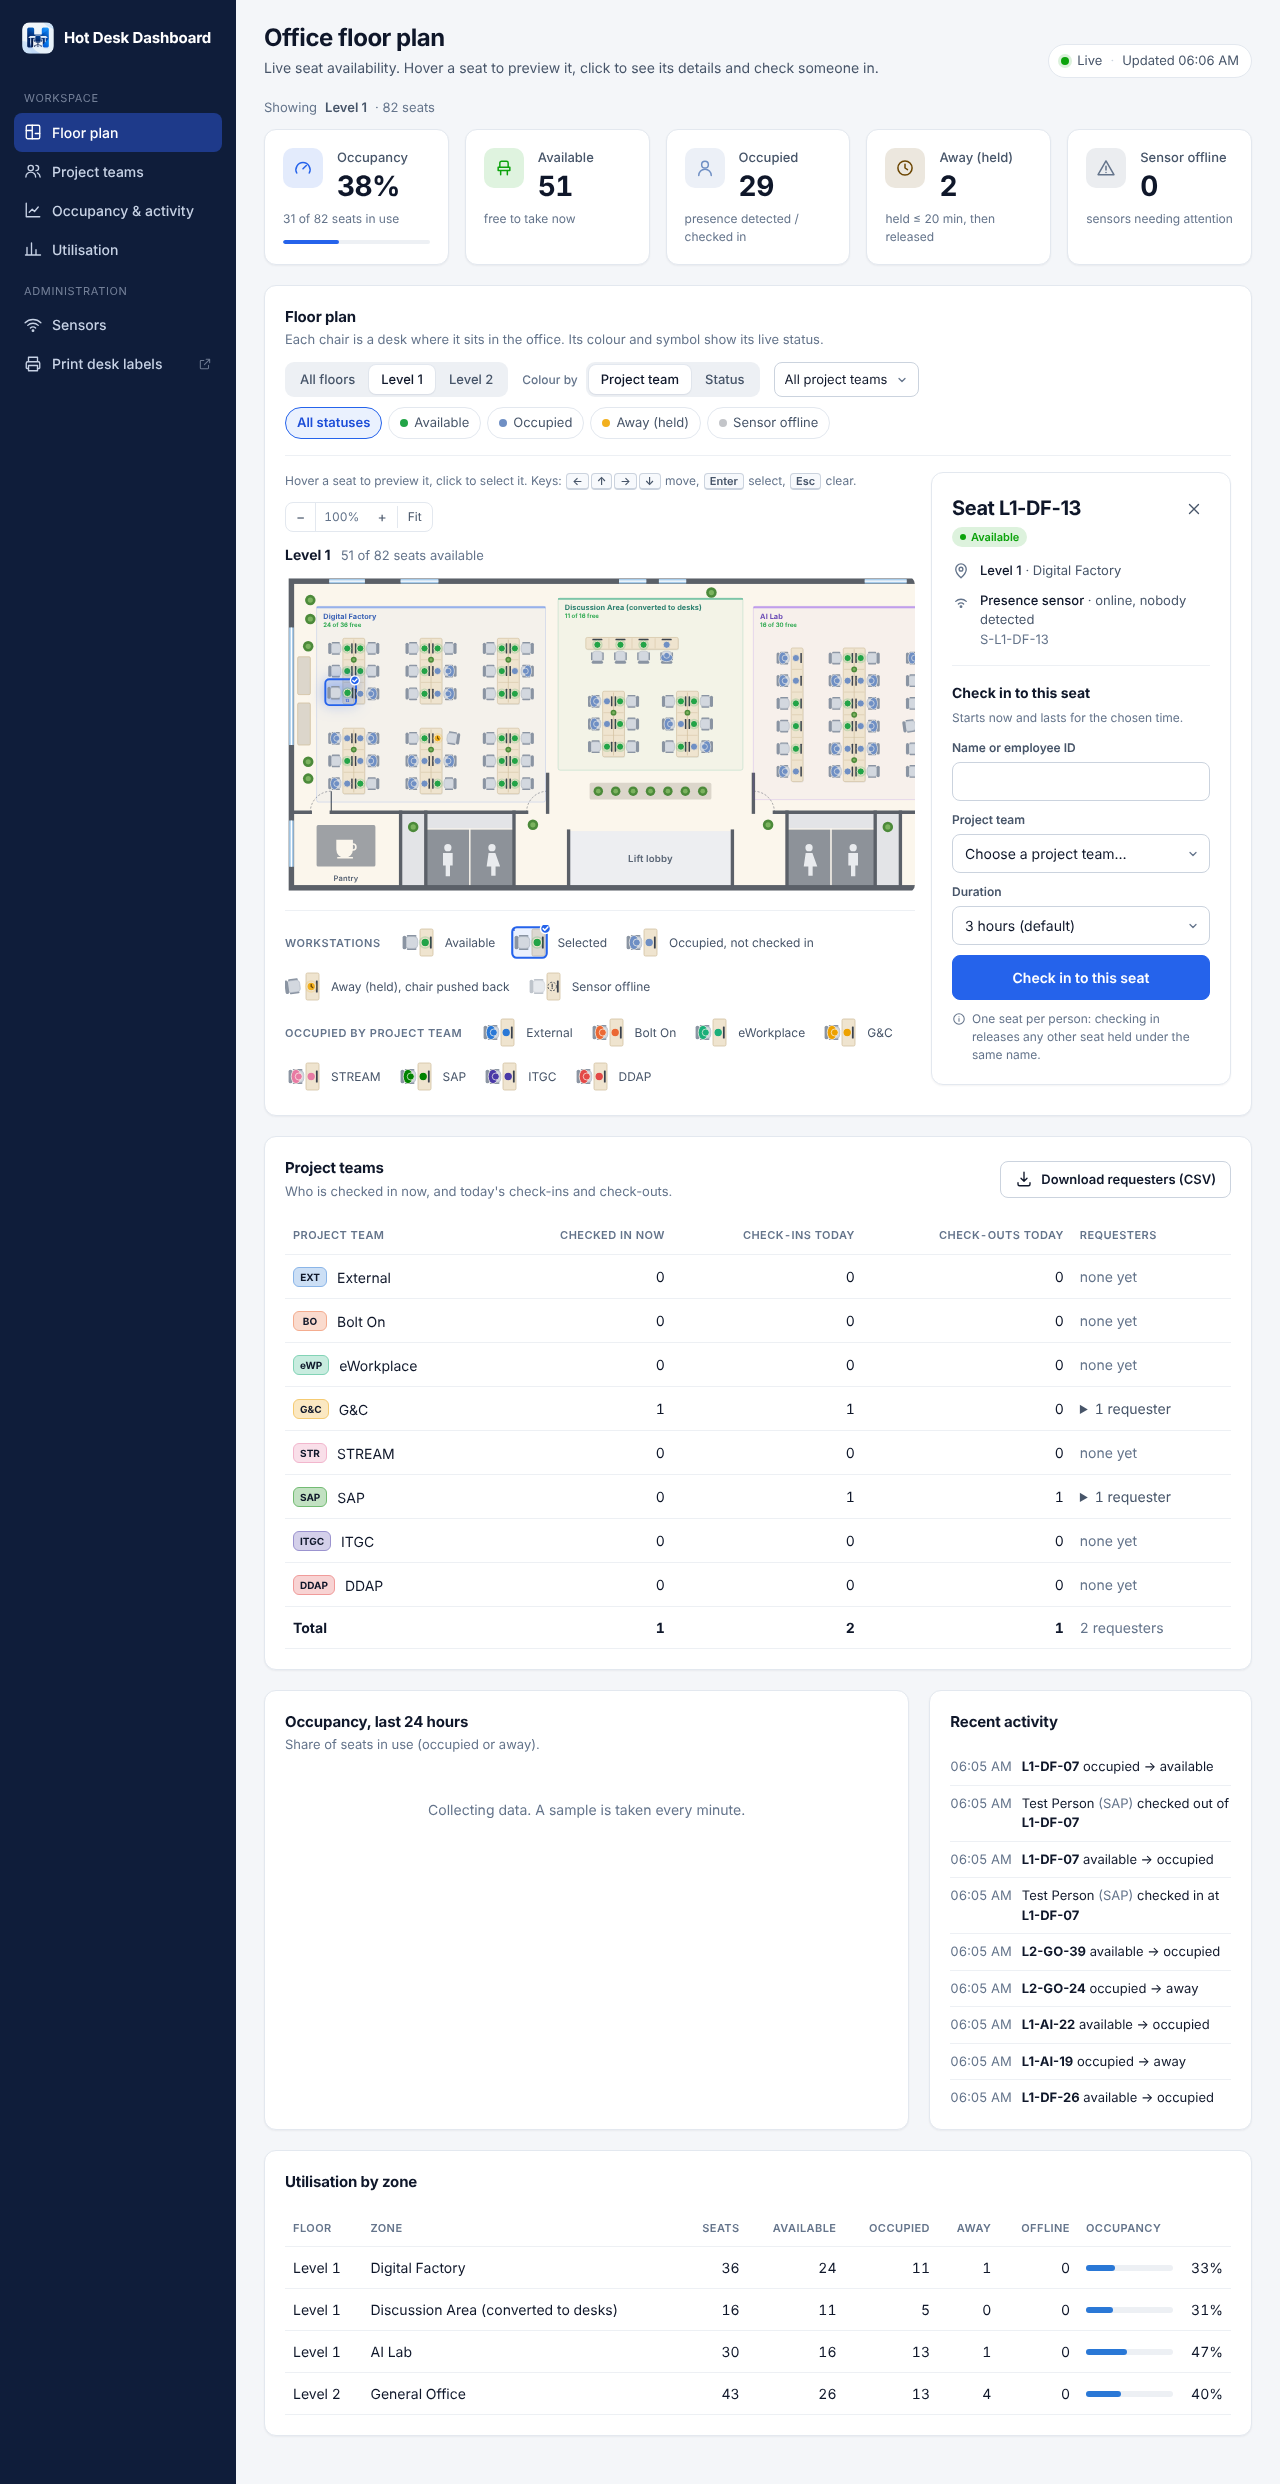
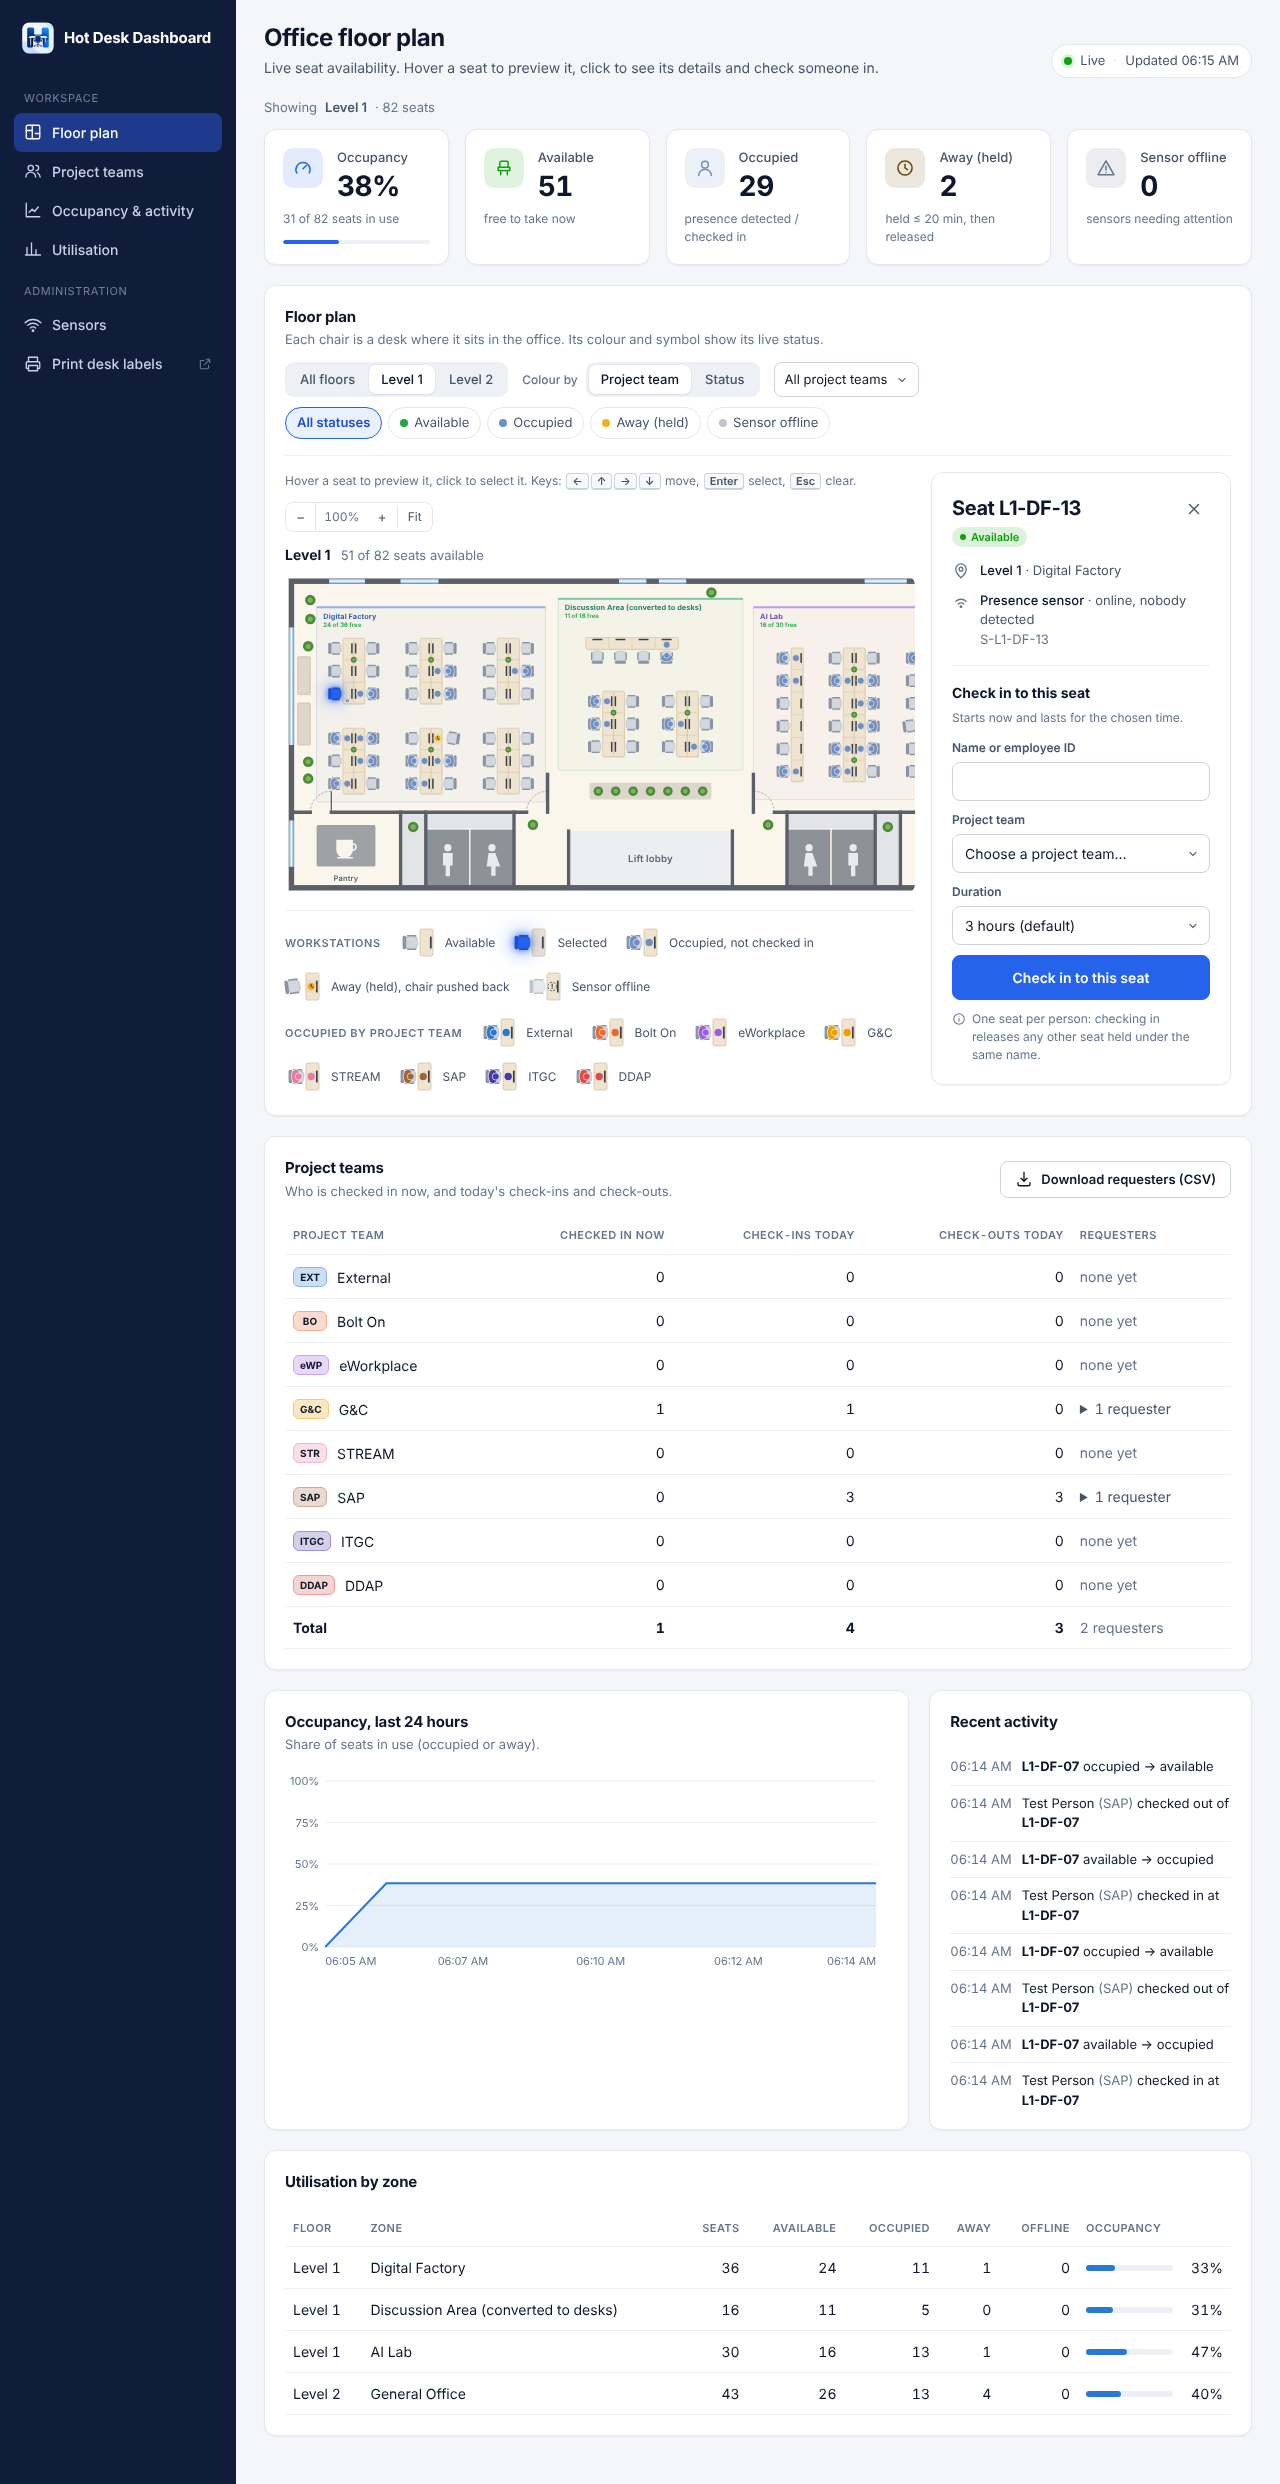
Select by highlighting the chair; drop the free-seat light; no green teams
- Selecting a seat now turns its chair blue with a soft glow, instead of
  boxing the whole workstation and its light
- Hover no longer draws a box either: the chair edge darkens and a free
  desk gets a faint green tint
- Free desks carry no status light; only occupied, away and offline seats do
- Project team palette slots 3 and 6 (green and teal-green) are now violet
  and brown, so team colours can't be mistaken for seat status

Claude-Session: https://claude.ai/code/session_01LGhQKA2iw4MbRhcQm9t68K

diff --git a/public/index.html b/public/index.html
@@ -43,8 +43,8 @@
     --seat-occ-ink: #64748b;
     --line: #2a78d6;
     /* Project team colours: the validated 8-slot categorical palette, assigned in team order. */
-    --team-1: #2a78d6; --team-2: #eb6834; --team-3: #1baf7a; --team-4: #eda100;
-    --team-5: #e87ba4; --team-6: #008300; --team-7: #4a3aa7; --team-8: #e34948;
+    --team-1: #2a78d6; --team-2: #eb6834; --team-3: #9b5de5; --team-4: #eda100;
+    --team-5: #e87ba4; --team-6: #a0663a; --team-7: #4a3aa7; --team-8: #e34948;
     --anon: #7a7974;
     /* Seat chairs on the floor plan: status is the chair colour plus a glyph. */
     --seat-available: #22a447; --seat-occupied: #6f8fc4; --seat-away: #f2b01e; --seat-offline: #c3c5c9;
@@ -65,8 +65,8 @@
       --shadow-sm: 0 1px 2px rgb(0 0 0 / 0.3); --shadow-md: 0 8px 24px -8px rgb(0 0 0 / 0.6);
       --available-soft: rgb(12 163 12 / 0.14); --away-ink: #fab219; --away-line: #fab219;
       --occupied: #3987e5; --offline: #5c5b56; --seat-occ: #2b3340; --seat-occ-ink: #8b97a7; --line: #3987e5;
-      --team-1: #3987e5; --team-2: #d95926; --team-3: #199e70; --team-4: #c98500;
-      --team-5: #d55181; --team-6: #008300; --team-7: #9085e9; --team-8: #e66767;
+      --team-1: #3987e5; --team-2: #d95926; --team-3: #b07cf0; --team-4: #c98500;
+      --team-5: #d55181; --team-6: #c08552; --team-7: #9085e9; --team-8: #e66767;
       --anon: #8f8e86;
       --seat-available: #2fb457; --seat-occupied: #5d7fb8; --seat-away: #e3a51a; --seat-offline: #4b5058;
       --seat-glyph: #ffffff; --seat-away-ink: #3d2800; --seat-offline-ink: #c3c8cf;
@@ -86,8 +86,8 @@
     --shadow-sm: 0 1px 2px rgb(0 0 0 / 0.3); --shadow-md: 0 8px 24px -8px rgb(0 0 0 / 0.6);
     --available-soft: rgb(12 163 12 / 0.14); --away-ink: #fab219; --away-line: #fab219;
     --occupied: #3987e5; --offline: #5c5b56; --seat-occ: #2b3340; --seat-occ-ink: #8b97a7; --line: #3987e5;
-    --team-1: #3987e5; --team-2: #d95926; --team-3: #199e70; --team-4: #c98500;
-    --team-5: #d55181; --team-6: #008300; --team-7: #9085e9; --team-8: #e66767;
+    --team-1: #3987e5; --team-2: #d95926; --team-3: #b07cf0; --team-4: #c98500;
+    --team-5: #d55181; --team-6: #c08552; --team-7: #9085e9; --team-8: #e66767;
     --anon: #8f8e86;
     --seat-available: #2fb457; --seat-occupied: #5d7fb8; --seat-away: #e3a51a; --seat-offline: #4b5058;
     --seat-glyph: #ffffff; --seat-away-ink: #3d2800; --seat-offline-ink: #c3c8cf;
@@ -253,22 +253,20 @@
   .seat { cursor: pointer; outline: none; transform-box: fill-box; transform-origin: center;
     transition: transform 0.18s cubic-bezier(0.2, 0.8, 0.2, 1), filter 0.18s, opacity 0.2s; }
   .seat .ws-hit { fill: transparent; }
-  .seat .ws-sel { fill: transparent; stroke: transparent; stroke-width: 0.3; transition: fill 0.18s, stroke 0.18s; }
   .seat .ws-desk { fill: transparent; transition: fill 0.18s; }
   .ws-monitor { fill: var(--fp-monitor); }
-  .ws-seat { fill: var(--fp-chair); stroke: var(--fp-chair-edge); stroke-width: 0.12; }
-  .ws-back, .ws-arm { fill: var(--fp-chair-dark); }
+  .ws-seat { fill: var(--fp-chair); stroke: var(--fp-chair-edge); stroke-width: 0.12; transition: fill 0.18s, stroke 0.18s; }
+  .ws-back, .ws-arm { fill: var(--fp-chair-dark); transition: fill 0.18s; }
+  .ws-chair { transition: filter 0.18s; }
   .ws-chair-in { transition: transform 0.2s ease; }
   .ws-person { display: none; fill: var(--seat-occupied); stroke: var(--fp-floor); stroke-width: 0.14; }
   .ws-light { fill: var(--k, var(--seat-offline)); stroke: var(--fp-table); stroke-width: 0.22; }
   .ws-light-halo { fill: var(--k, transparent); opacity: 0.2; }
   .ws-glyph { display: none; fill: none; stroke: #fff; stroke-width: 0.26; stroke-linecap: round; }
   .ws-num { display: none; font: 600 0.82px var(--font); fill: var(--fp-label); text-anchor: middle; dominant-baseline: central; }
-  .ws-badge { display: none; }
-  .ws-badge circle { fill: var(--accent); stroke: var(--surface); stroke-width: 0.3; }
-  .ws-badge path { fill: none; stroke: #fff; stroke-width: 0.3; stroke-linecap: round; stroke-linejoin: round; }
 
   .st-available { --k: var(--seat-available); }
+  .st-available .ws-status { display: none; }
   .st-occupied { --k: var(--seat-occupied); }
   .st-occupied .ws-person { display: inline; }
   .st-occupied .ws-light-halo { opacity: 0; }
@@ -287,14 +285,15 @@
 
   .show-nums .ws-num { display: inline; }
   .seat:not(.is-dim):hover, .seat:focus-visible { transform: translateY(-0.25px) scale(1.06); filter: drop-shadow(0 1px 1.2px rgb(15 23 42 / 0.28)); }
-  .seat:not(.is-dim):hover .ws-sel, .seat:focus-visible .ws-sel { fill: color-mix(in srgb, var(--k, var(--accent)) 10%, transparent); stroke: color-mix(in srgb, var(--k, var(--accent)) 55%, transparent); }
+  .seat:not(.is-dim):hover .ws-seat, .seat:focus-visible .ws-seat { stroke: var(--text-muted); stroke-width: 0.22; }
   .seat:hover .ws-num, .seat:focus-visible .ws-num { display: inline; }
   .seat.st-available:not(.is-dim):hover .ws-desk { fill: color-mix(in srgb, var(--seat-available) 14%, transparent); }
-  .seat:focus-visible .ws-sel { stroke: var(--accent); stroke-dasharray: 0.6 0.4; }
-  .seat.is-selected { transform: translateY(-0.25px) scale(1.06); filter: drop-shadow(0 0 1.6px rgb(37 99 235 / 0.55)); }
-  .seat.is-selected .ws-sel, .seat.is-selected:hover .ws-sel { fill: color-mix(in srgb, var(--accent) 9%, transparent); stroke: var(--accent); stroke-width: 0.42; stroke-dasharray: none; }
-  .seat.is-selected .ws-badge, .seat.is-selected .ws-num { display: inline; }
-  .seat.is-selected .ws-num { fill: var(--accent-strong); font-weight: 700; }
+  .seat:focus-visible .ws-seat { stroke: var(--accent); stroke-dasharray: 0.5 0.35; }
+  /* Selected: the chair itself turns blue and glows; nothing is boxed. */
+  .seat.is-selected .ws-seat, .seat.is-selected:hover .ws-seat { fill: var(--accent); stroke: var(--accent-strong); stroke-width: 0.16; stroke-dasharray: none; }
+  .seat.is-selected .ws-back, .seat.is-selected .ws-arm { fill: var(--accent-strong); }
+  .seat.is-selected .ws-chair { filter: drop-shadow(0 0 0.8px var(--accent)) drop-shadow(0 0 2.2px rgb(37 99 235 / 0.55)); opacity: 1; }
+  .seat.is-selected .ws-num { display: inline; fill: var(--accent-strong); font-weight: 700; }
   .seat.is-dim { pointer-events: none; cursor: default; opacity: 0.2; }
 
   /* Legend */
@@ -302,7 +301,7 @@
   .lgroup { display: flex; flex-wrap: wrap; gap: 8px 16px; align-items: center; }
   .lgroup > b { font-size: 11px; text-transform: uppercase; letter-spacing: 0.05em; color: var(--text-muted); font-weight: 600; margin-right: 2px; }
   .litem { display: inline-flex; align-items: center; gap: 6px; font-size: 12px; color: var(--text-secondary); }
-  .ws-sample { width: 40px; height: 36px; flex: none; }
+  .ws-sample { width: 40px; height: 36px; flex: none; overflow: visible; }
   .ws-sample .seat { cursor: default; pointer-events: none; transform: none !important; filter: none !important; }
   .chip {
     display: inline-flex; align-items: center; justify-content: center; min-width: 34px; height: 20px; padding: 0 6px; border-radius: 6px;

diff --git a/public/floorplan.js b/public/floorplan.js
@@ -8,8 +8,8 @@
  * wide a bench desk, and a single row of three or more a counter with seats along it.
  *
  * Each seat is drawn as a workstation: its own segment of the table with a monitor, an
- * office chair, and a status light on the desk. Furniture is neutral; status is colour
- * (the light, and a seated person when occupied); interaction is a highlight.
+ * office chair, and a status light on the desk once it is taken (none while free).
+ * Furniture is neutral; status is colour; selection turns the chair itself blue.
  *
  * A floor may also carry a `plan` (outline, walls, windows, doors, rooms, fixtures,
  * plants and a box per zone, all in plan units of roughly 10 cm). Without one, zones
@@ -239,13 +239,11 @@ const FloorPlan = (() => {
     const num = String(p.id).split('-').pop();
     return `<g class="seat" data-seat="${esc(p.id)}" data-side="${p.side}" data-kind="${esc(p.kind)}" data-table-seats="${p.tableSeats}" tabindex="-1" role="button">
       <rect class="ws-hit" x="${r1(b.x - 0.3)}" y="${r1(b.y - 0.3)}" width="${r1(b.w + 0.6)}" height="${r1(b.h + 0.6)}"/>
-      <rect class="ws-sel" x="${r1(b.x - 0.35)}" y="${r1(b.y - 0.35)}" width="${r1(b.w + 0.7)}" height="${r1(b.h + 0.7)}" rx="0.9"/>
       <rect class="ws-desk" x="${p.desk.x}" y="${p.desk.y}" width="${p.desk.w}" height="${p.desk.h}"/>
       <rect class="ws-monitor" x="${p.monitor.x}" y="${p.monitor.y}" width="${p.monitor.w}" height="${p.monitor.h}" rx="0.12"/>
       <g class="ws-chair" transform="${chairTransform(p)}">${CHAIR_SHAPE}</g>
       <g class="ws-status" transform="translate(${p.light[0]} ${p.light[1]})">${LIGHT}</g>
       <text class="ws-num" x="${p.label[0]}" y="${p.label[1]}">${esc(num)}</text>
-      <g class="ws-badge" transform="translate(${r1(b.x + b.w + 0.1)} ${r1(b.y - 0.1)})"><circle r="1"/><path d="M-0.46 0.02l0.32 0.32 0.62-0.66"/></g>
     </g>`;
   }
 
@@ -256,7 +254,7 @@ const FloorPlan = (() => {
       light: [CHAIR + DESK * 0.4, 2.7], label: [0, 0] };
     return `<svg class="ws-sample" viewBox="-0.6 -0.6 ${r1(CHAIR + DESK + 1.8)} 6.8" aria-hidden="true">
       <rect class="fp-table" x="${CHAIR}" y="0" width="${DESK}" height="5.4" rx="0.3"/>
-      ${seatMarkup(p).replace('class="seat"', `class="seat ${cls}" style="${style}"`).replace(/tabindex="-1" role="button"/, '')}</svg>`;
+      ${seatMarkup(p).replace('class="seat"', `class="seat ${cls}" style="${style}"`).replace(/tabindex="-1" role="button"/, '').replace(/<text class="ws-num"[^]*?<\/text>/, '')}</svg>`;
   }
 
   const plantMarkup = ([x, y], size = 1) => `<g class="fp-plant" transform="translate(${x} ${y}) scale(${size})">

diff --git a/README.md b/README.md
@@ -101,8 +101,9 @@ a table. A bank two desks wide is a table with chairs on both sides, a bank one 
 single row of three or more is a counter with chairs along it.
 
 Each seat is drawn as a workstation: its own segment of the table with a monitor, and an office chair, in
-neutral colours. Status is a small light on the desk. An occupied seat also shows a person in the chair, and
-an away seat shows the chair pushed back.
+neutral colours. A free desk has no marker. A taken desk gets a small status light: an occupied seat also
+shows a person in the chair, and an away seat shows the chair pushed back. The selected seat's chair turns
+blue and glows.
 
 To draw walls and facilities, give the floor a `"plan"`. All numbers are plan units (about 10 cm), with
 `0,0` at the top-left corner of the outer wall:
